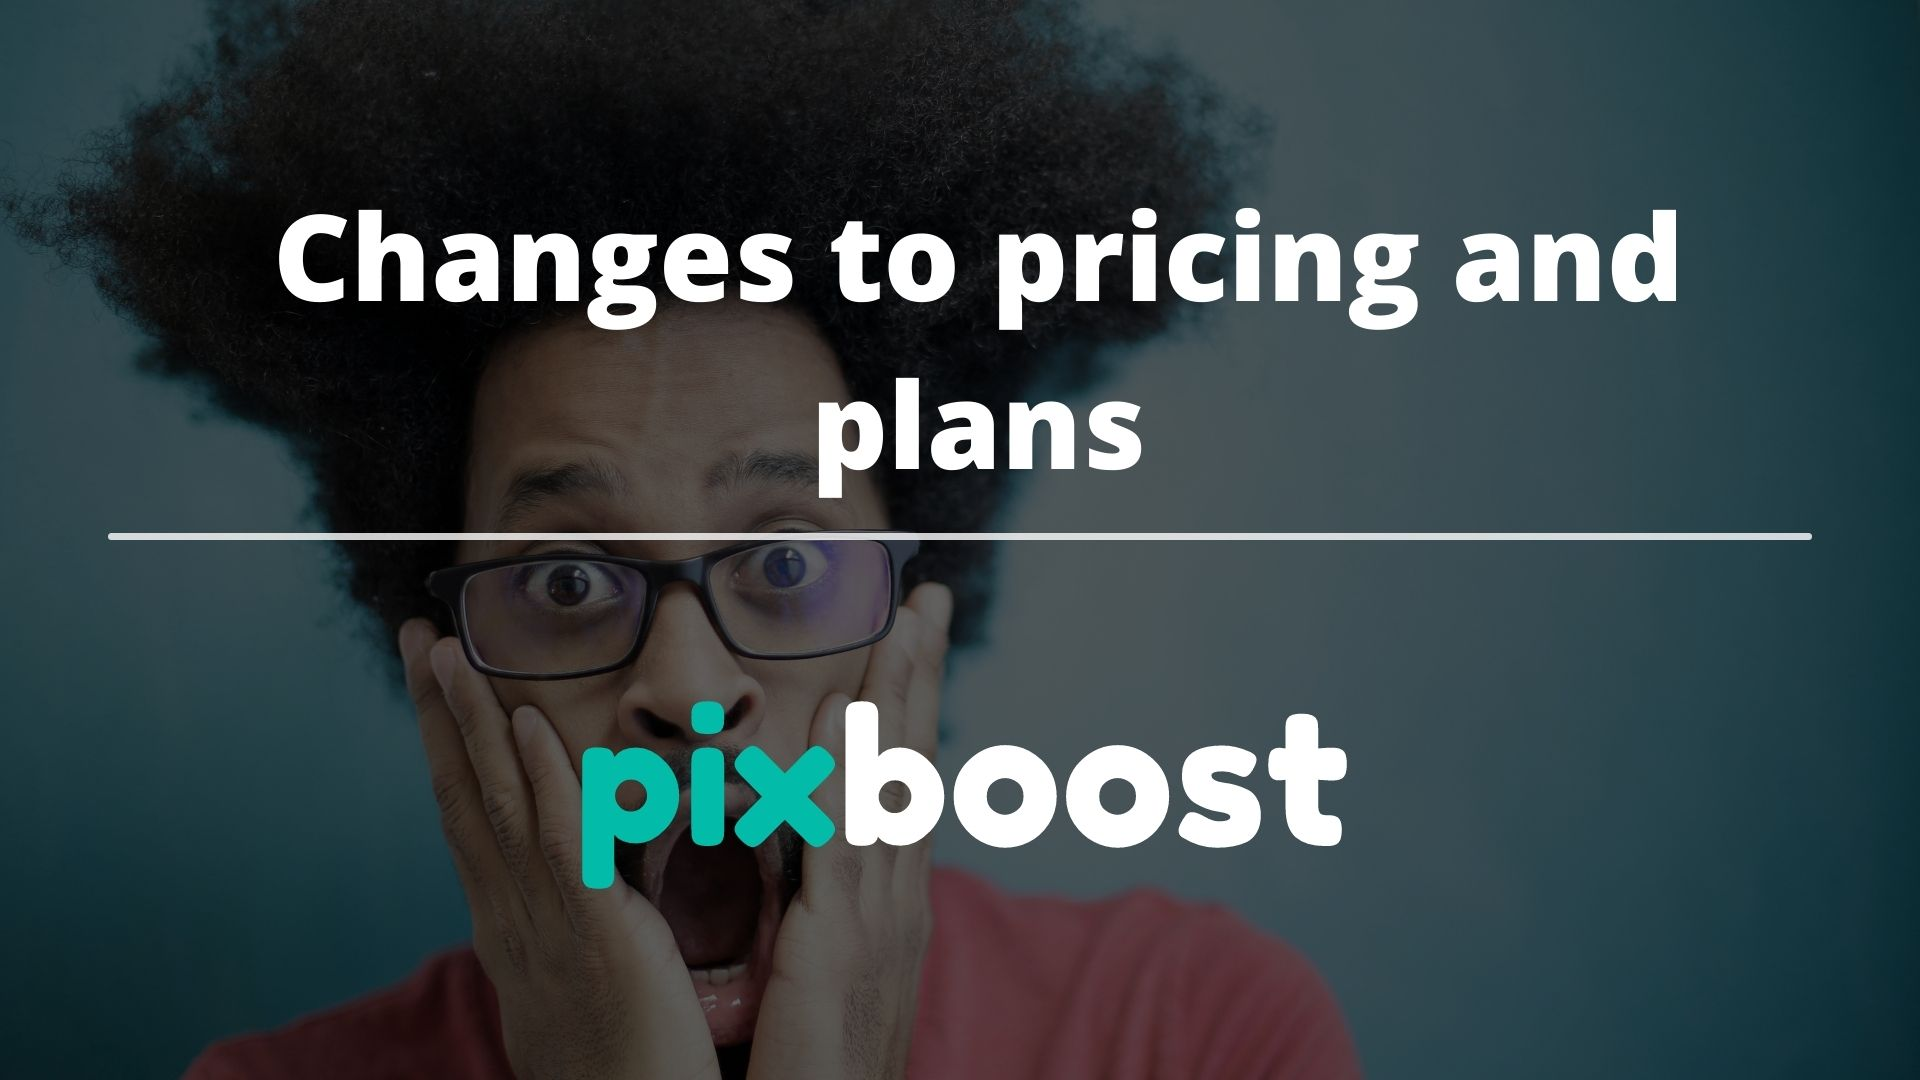
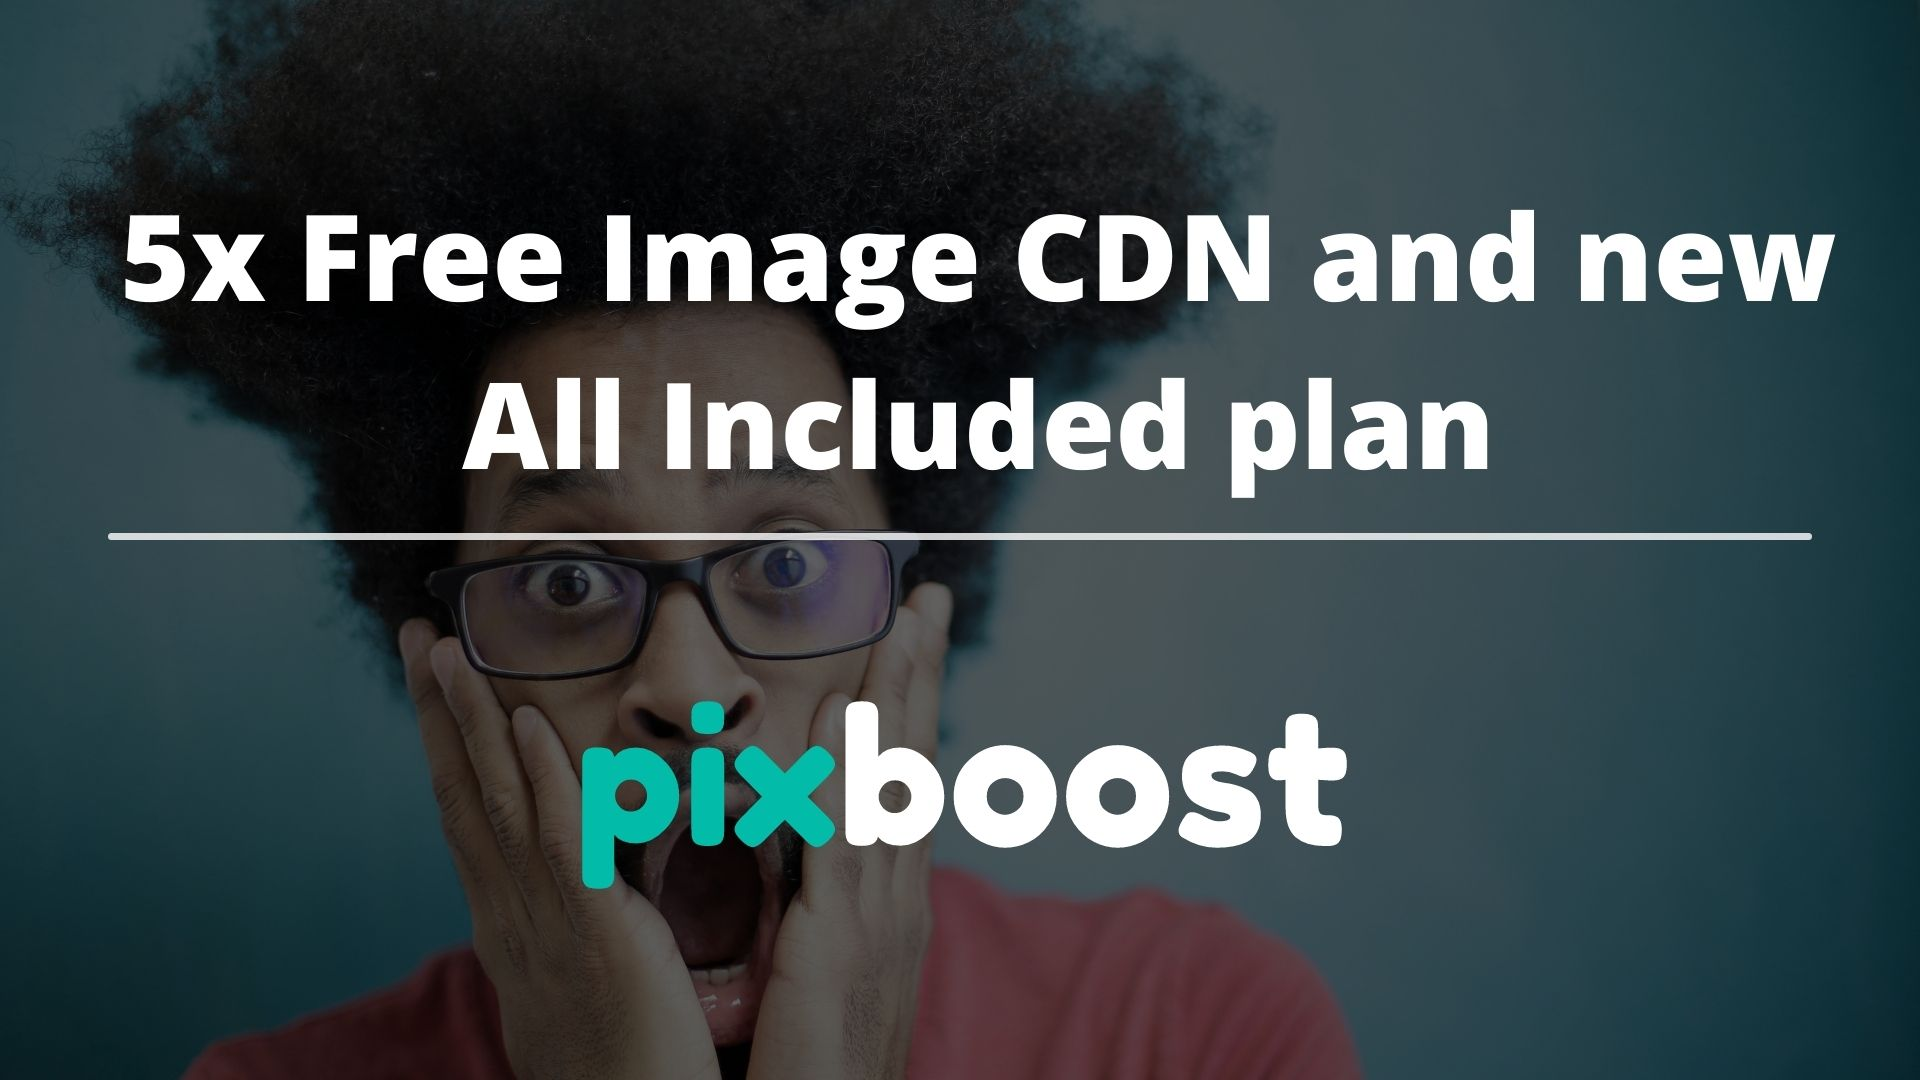
Fixed hero image for the article and updated lastmod dates

Changed region(s): [[0.0625, 0.1833, 0.9688, 0.3056], [0.2188, 0.3361, 0.7812, 0.4583]]

diff --git a/site/content/prices/index.md b/site/content/prices/index.md
@@ -2,7 +2,7 @@
 title: "Pixboost - Prices"
 description: "Pixboost pricing is simple and flexible - you pay only for outgoing optimised traffic that you used"
 date: 2021-03-31T00:00:00Z
-lastmod: 2021-12-20T20:20:00Z
+lastmod: 2022-01-16T11:28:21Z
 draft: false
 layout: prices
 type: prices

diff --git a/site/content/blog/5x-free-image-cdn/index.md b/site/content/blog/5x-free-image-cdn/index.md
@@ -1,6 +1,6 @@
 ---
 title: "5x Free Image CDN and new All Included plan"
-date: 2022-01-08T12:04:21Z
+date: 2022-01-16T11:33:21Z
 description: We updated prices on our Image CDN and made our Free plan 5 times bigger.
 image: surprise.jpg
 draft: false
